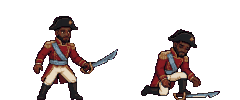
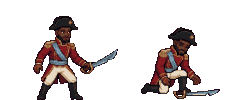
Quest: Patricio's steel saber stance; old Patricio bald with grey stubble
The steel saber stance converted like the other two (all three now keep the
kneeling pose fully in frame). Old Patricio's prompts and stand-in sprite: a
bald head and light-grey stubble (owner, Oct 16).

Claude-Session: https://claude.ai/code/session_01YAnSxFxcnPAhQ8NFJcHZDX

Changed region(s): [[0.5833, 0.27, 0.9333, 1.0]]

diff --git a/quest/src/assets.config.ts b/quest/src/assets.config.ts
@@ -218,7 +218,7 @@ export const NPC_SPRITES: Record<string, PlaceholderCharacter> = {
     headgear: 'wrap', headgearColor: C.m!, accessories: ['sash'],
   },
   patricio_old: {
-    skin: C.s!, hair: WHITE_HAIR, hairStyle: 'bald', outfit: C.r!, trim: C.y!, legs: C.u!, beard: WHITE_HAIR,
+    skin: C.s!, hair: WHITE_HAIR, hairStyle: 'bald', outfit: C.r!, trim: C.y!, legs: C.u!, beard: C.G!,
     accessories: ['epaulettes', 'cane'],
   },
   yari: {

diff --git a/scripts/quest-stance-patricio.py b/scripts/quest-stance-patricio.py
@@ -24,7 +24,7 @@ def cell(src, cx, foot, lo, hi):
     return s
 for path, dest in zip(sys.argv[1::2], sys.argv[2::2]):
     src = Image.open(path).convert('RGB')
-    st = cell(src, 195, 494, 0, 505); dn = cell(src, 785, 512, 518, src.width)
+    st = cell(src, 195, 494, 0, 505); dn = cell(src, 785, 522, 518, src.width)
     sheet = Image.new('RGBA', (st.width * 2, st.height), (0, 0, 0, 0)); sheet.paste(st, (0, 0), st); sheet.paste(dn, (st.width, 0), dn)
     q = sheet.convert('RGB').quantize(colors=28, method=Image.Quantize.MEDIANCUT, dither=Image.Dither.NONE).convert('RGBA'); q.putalpha(sheet.split()[3]); q.save(dest)
     print(dest, q.size)

diff --git a/docs/quest/ART-PROMPTS.md b/docs/quest/ART-PROMPTS.md
@@ -102,16 +102,16 @@ Pixel art sprite sheet of the same character, Patricio, for a top-down 16-bit fa
 ## 4. Patricio, old (the present)
 
 The same man fifty years later, about 78: the old Marshal on the Temple island, still broad, slower now, proud and
-sad. Use **the same chat as young Patricio** if you can, so it keeps his face. Also 28 x 36.
+sad. Fully bald, with light-grey stubble (owner, Oct 16). Use **the same chat as young Patricio** if you can, so it keeps his face. Also 28 x 36.
 
 **1. Character reference sheet** (same chat as young Patricio, or a new chat with his reference sheet attached)
 ```
-Same character, Marshal Patricio Jean-Philippe, fifty years later: now about 78. Keep his face clearly recognisable as the same man (the same eyes, nose and smile, and the faint sun birthmark on his cheek), aged naturally. Still tall and broad, a little stooped, slower, dignified. Deep brown skin with lines at the eyes, bald on top with short white hair at the sides, a full white beard, warm tired eyes. Outfit: the same deep red officer's coat, now darker, worn and patched at the elbows, its gold epaulettes dulled, the sky-blue sash faded, worn over a white shirt, dark trousers and old black boots; no hat. He leans on a dark wooden walking cane with a small brass sun on its handle. Show his full body three times on one sheet: front view, side view and back view, both hands on the cane, same scale, evenly spaced, plus one small close-up of his face. Style: the same hand-painted fantasy storybook look, crisp clean outlines, bright warm colours, well-lit face, soft shading, clear readable shapes. Plain flat light-grey background. No text, no labels, no frames, no extra people, no anime or chibi style, not photorealistic.
+Same character, Marshal Patricio Jean-Philippe, fifty years later: now about 78. Keep his face clearly recognisable as the same man (the same eyes, nose and smile, and the faint sun birthmark on his cheek), aged naturally. Still tall and broad, a little stooped, slower, dignified. Deep brown skin with lines at the eyes, a completely bald head with no hair at all, short light-grey stubble on his cheeks, jaw and upper lip (no full beard), warm tired eyes. Outfit: the same deep red officer's coat, now darker, worn and patched at the elbows, its gold epaulettes dulled, the sky-blue sash faded, worn over a white shirt, dark trousers and old black boots; no hat. He leans on a dark wooden walking cane with a small brass sun on its handle. Show his full body three times on one sheet: front view, side view and back view, both hands on the cane, same scale, evenly spaced, plus one small close-up of his face. Style: the same hand-painted fantasy storybook look, crisp clean outlines, bright warm colours, well-lit face, soft shading, clear readable shapes. Plain flat light-grey background. No text, no labels, no frames, no extra people, no anime or chibi style, not photorealistic.
 ```
 
 **2. Dialogue portrait** (same chat)
 ```
-Same character as this new reference sheet: old Patricio, about 78. Head-and-shoulders portrait for a game's dialogue box, facing three-quarters toward the viewer, centred, filling a square image. Deep brown skin, bald with white hair at the sides, full white beard, the faint sun birthmark, the worn red coat with dulled gold epaulettes and faded sky-blue sash. Expression: proud and kind, a tired warm smile. Style: the same hand-painted fantasy storybook look, crisp outlines, bright warm colours, the face well lit from the upper left, simple readable shapes that still read when shrunk very small. Solid flat magenta background (#FF00FF) filling the whole square. No text, no frame, no border, no other people.
+Same character as this new reference sheet: old Patricio, about 78. Head-and-shoulders portrait for a game's dialogue box, facing three-quarters toward the viewer, centred, filling a square image. Deep brown skin, a completely bald head, short light-grey stubble on his jaw and upper lip, the faint sun birthmark, the worn red coat with dulled gold epaulettes and faded sky-blue sash. Expression: proud and kind, a tired warm smile. Style: the same hand-painted fantasy storybook look, crisp outlines, bright warm colours, the face well lit from the upper left, simple readable shapes that still read when shrunk very small. Solid flat magenta background (#FF00FF) filling the whole square. No text, no frame, no border, no other people.
 ```
 Then two more expressions, one at a time:
 - *"Same portrait, same framing, expression: **sad**, eyes wet, looking down, remembering."*
@@ -119,7 +119,7 @@ Then two more expressions, one at a time:
 
 **3. Pixel walking sprite sheet** (same chat; also attach **Gianna's sprite sheet** and, if you have it, **young Patricio's sprite sheet**)
 ```
-Pixel art sprite sheet of the same character, old Patricio, for a top-down 16-bit fantasy RPG in Game Boy Advance style. Match the attached sprite sheets' art style, pixel size and chibi proportions (big head about 40% of the figure); he is as tall as young Patricio but a little stooped. A strict grid of 4 rows and 3 columns, 12 cells, every cell the same size, with NO lines or borders between the cells. Row 1 facing down (toward the viewer), row 2 facing left, row 3 facing right, row 4 facing up (back view). In each row: column 1 standing still, column 2 left foot forward, column 3 right foot forward. Every frame in row 2 faces left and every frame in row 3 faces right. Deep brown skin, bald head with white hair at the sides, white beard, worn dark red coat with dull gold epaulettes, faded sky-blue sash, dark trousers, a wooden cane in one hand visible in every frame. Bright, warm colours with clearly lit skin; dark eyes visible on the face. 1-pixel dark outline, flat colours, at most 16 colours, hard pixel edges, no anti-aliasing, no gradients, no shadows on the ground. Feet at the bottom of each cell, same size and position in every cell. Solid flat magenta background (#FF00FF). No text, no numbers, no grid lines, no labels.
+Pixel art sprite sheet of the same character, old Patricio, for a top-down 16-bit fantasy RPG in Game Boy Advance style. Match the attached sprite sheets' art style, pixel size and chibi proportions (big head about 40% of the figure); he is as tall as young Patricio but a little stooped. A strict grid of 4 rows and 3 columns, 12 cells, every cell the same size, with NO lines or borders between the cells. Row 1 facing down (toward the viewer), row 2 facing left, row 3 facing right, row 4 facing up (back view). In each row: column 1 standing still, column 2 left foot forward, column 3 right foot forward. Every frame in row 2 faces left and every frame in row 3 faces right. Deep brown skin, a completely bald head with no hair, light-grey stubble on the jaw, worn dark red coat with dull gold epaulettes, faded sky-blue sash, dark trousers, a wooden cane in one hand visible in every frame. Bright, warm colours with clearly lit skin; dark eyes visible on the face. 1-pixel dark outline, flat colours, at most 16 colours, hard pixel edges, no anti-aliasing, no gradients, no shadows on the ground. Feet at the bottom of each cell, same size and position in every cell. Solid flat magenta background (#FF00FF). No text, no numbers, no grid lines, no labels.
 ```
 
 ---
